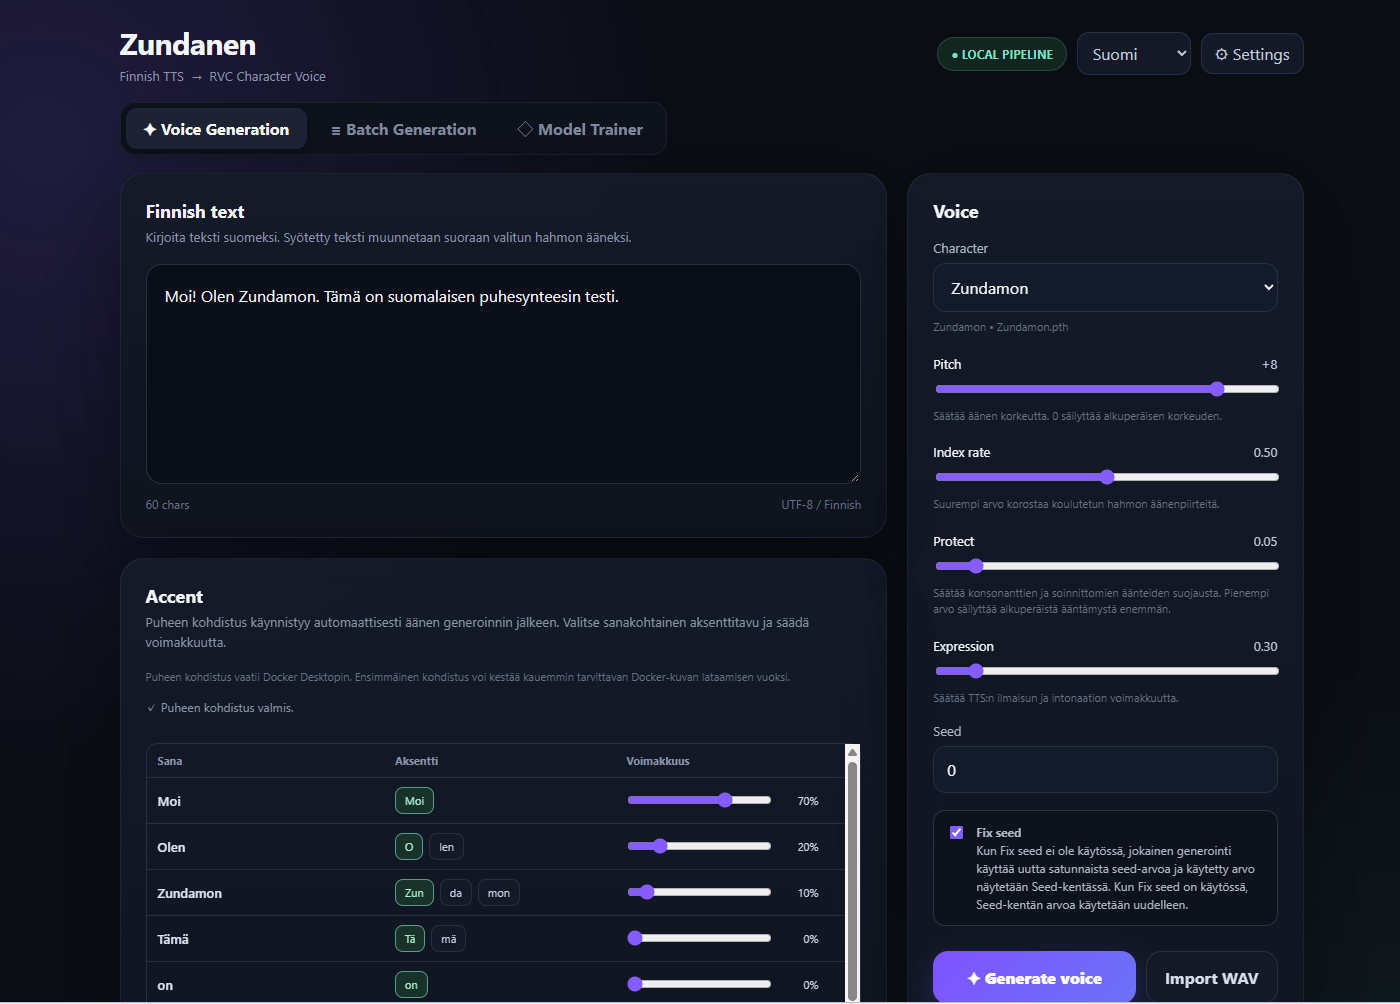
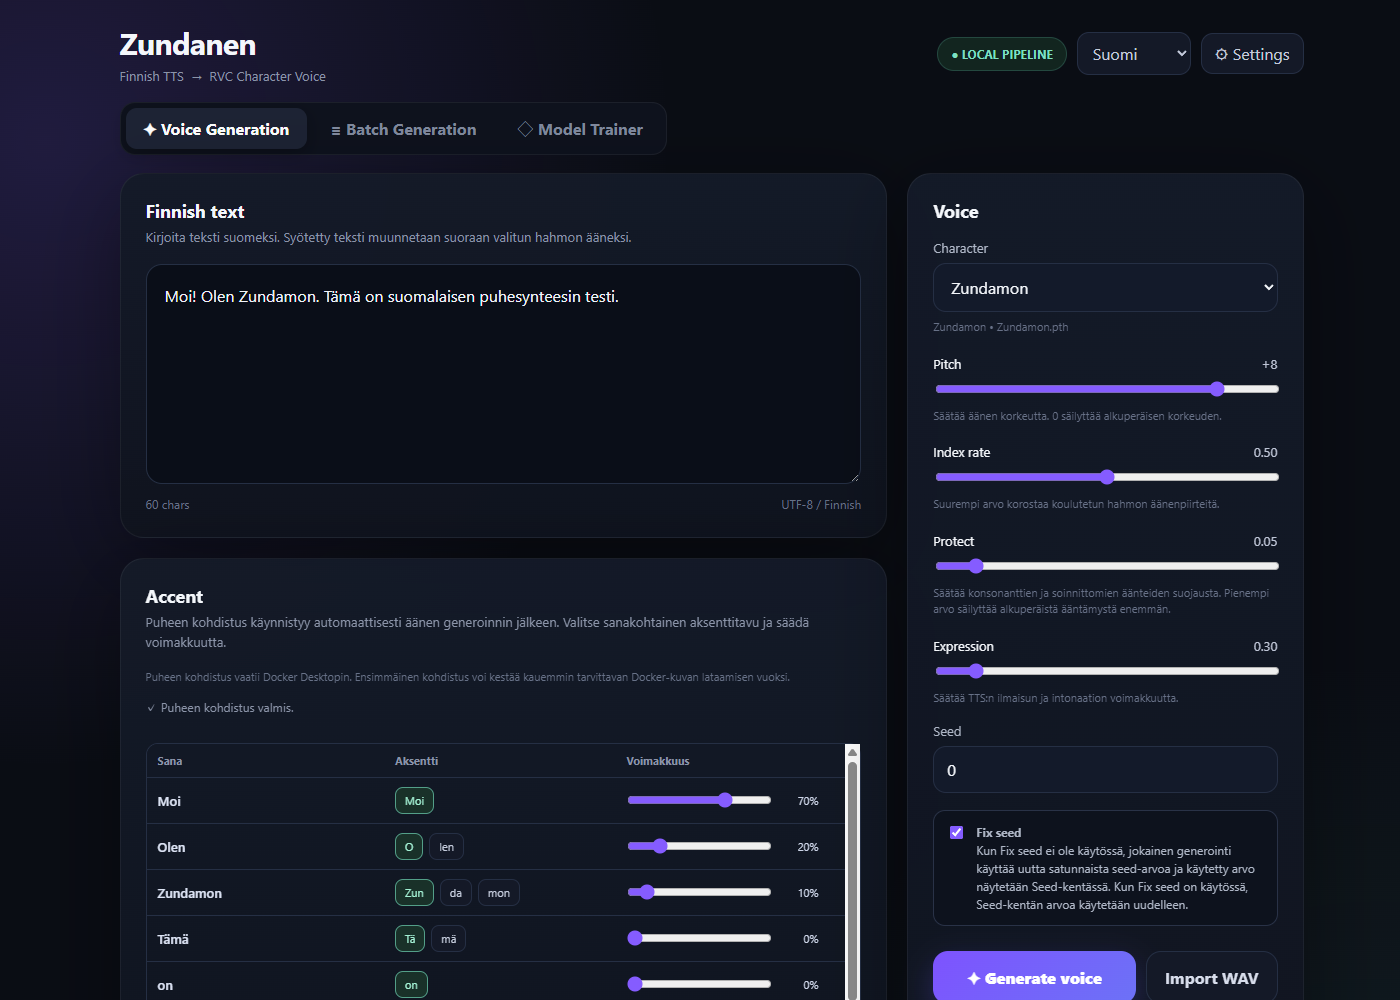
Add UI screenshot

diff --git a/README_JA.md b/README_JA.md
@@ -6,6 +6,8 @@ Zundanen は，フィンランド語テキストを **Finnish-NLP/Chatterbox-Fin
 
 同じ UI に，複数文章を連続生成する **Batch Generation**，単語ごとのアクセントを編集する **Accent**，音声フォルダから RVC v2 モデル（`.pth + .index`）を作成する **Model Trainer** を含みます．
 
+![Zundanen UI](docs/Zundanen-UI.png)
+
 ## 使い方動画
 
 [https://youtu.be/e5rfWdmxM20?si=ouU6rzhPJ9XnrOmY](https://youtu.be/e5rfWdmxM20?si=ouU6rzhPJ9XnrOmY)

diff --git a/README.md b/README.md
@@ -6,6 +6,8 @@ Zundanen on paikallinen Windows-sovellus, joka muuntaa suomenkielisen tekstin ke
 
 Samassa käyttöliittymässä ovat **Batch Generation**, valinnainen sanakohtainen **Accent**-muokkaus sekä **Model Trainer**, jolla voi kouluttaa RVC v2 -mallin (`.pth + .index`) äänikansiosta.
 
+![Zundanen UI](docs/Zundanen-UI.png)
+
 ## Käyttöohjevideo
 
 [https://youtu.be/e5rfWdmxM20?si=ouU6rzhPJ9XnrOmY](https://youtu.be/e5rfWdmxM20?si=ouU6rzhPJ9XnrOmY)

diff --git a/README_EN.md b/README_EN.md
@@ -6,6 +6,8 @@ Zundanen is a local Windows application that converts Finnish text through **Fin
 
 The same UI also includes **Batch Generation**, optional word-level **Accent** editing, and a **Model Trainer** for creating RVC v2 `.pth + .index` models from an audio folder.
 
+![Zundanen UI](docs/Zundanen-UI.png)
+
 ## Tutorial video
 
 [https://youtu.be/e5rfWdmxM20?si=ouU6rzhPJ9XnrOmY](https://youtu.be/e5rfWdmxM20?si=ouU6rzhPJ9XnrOmY)
